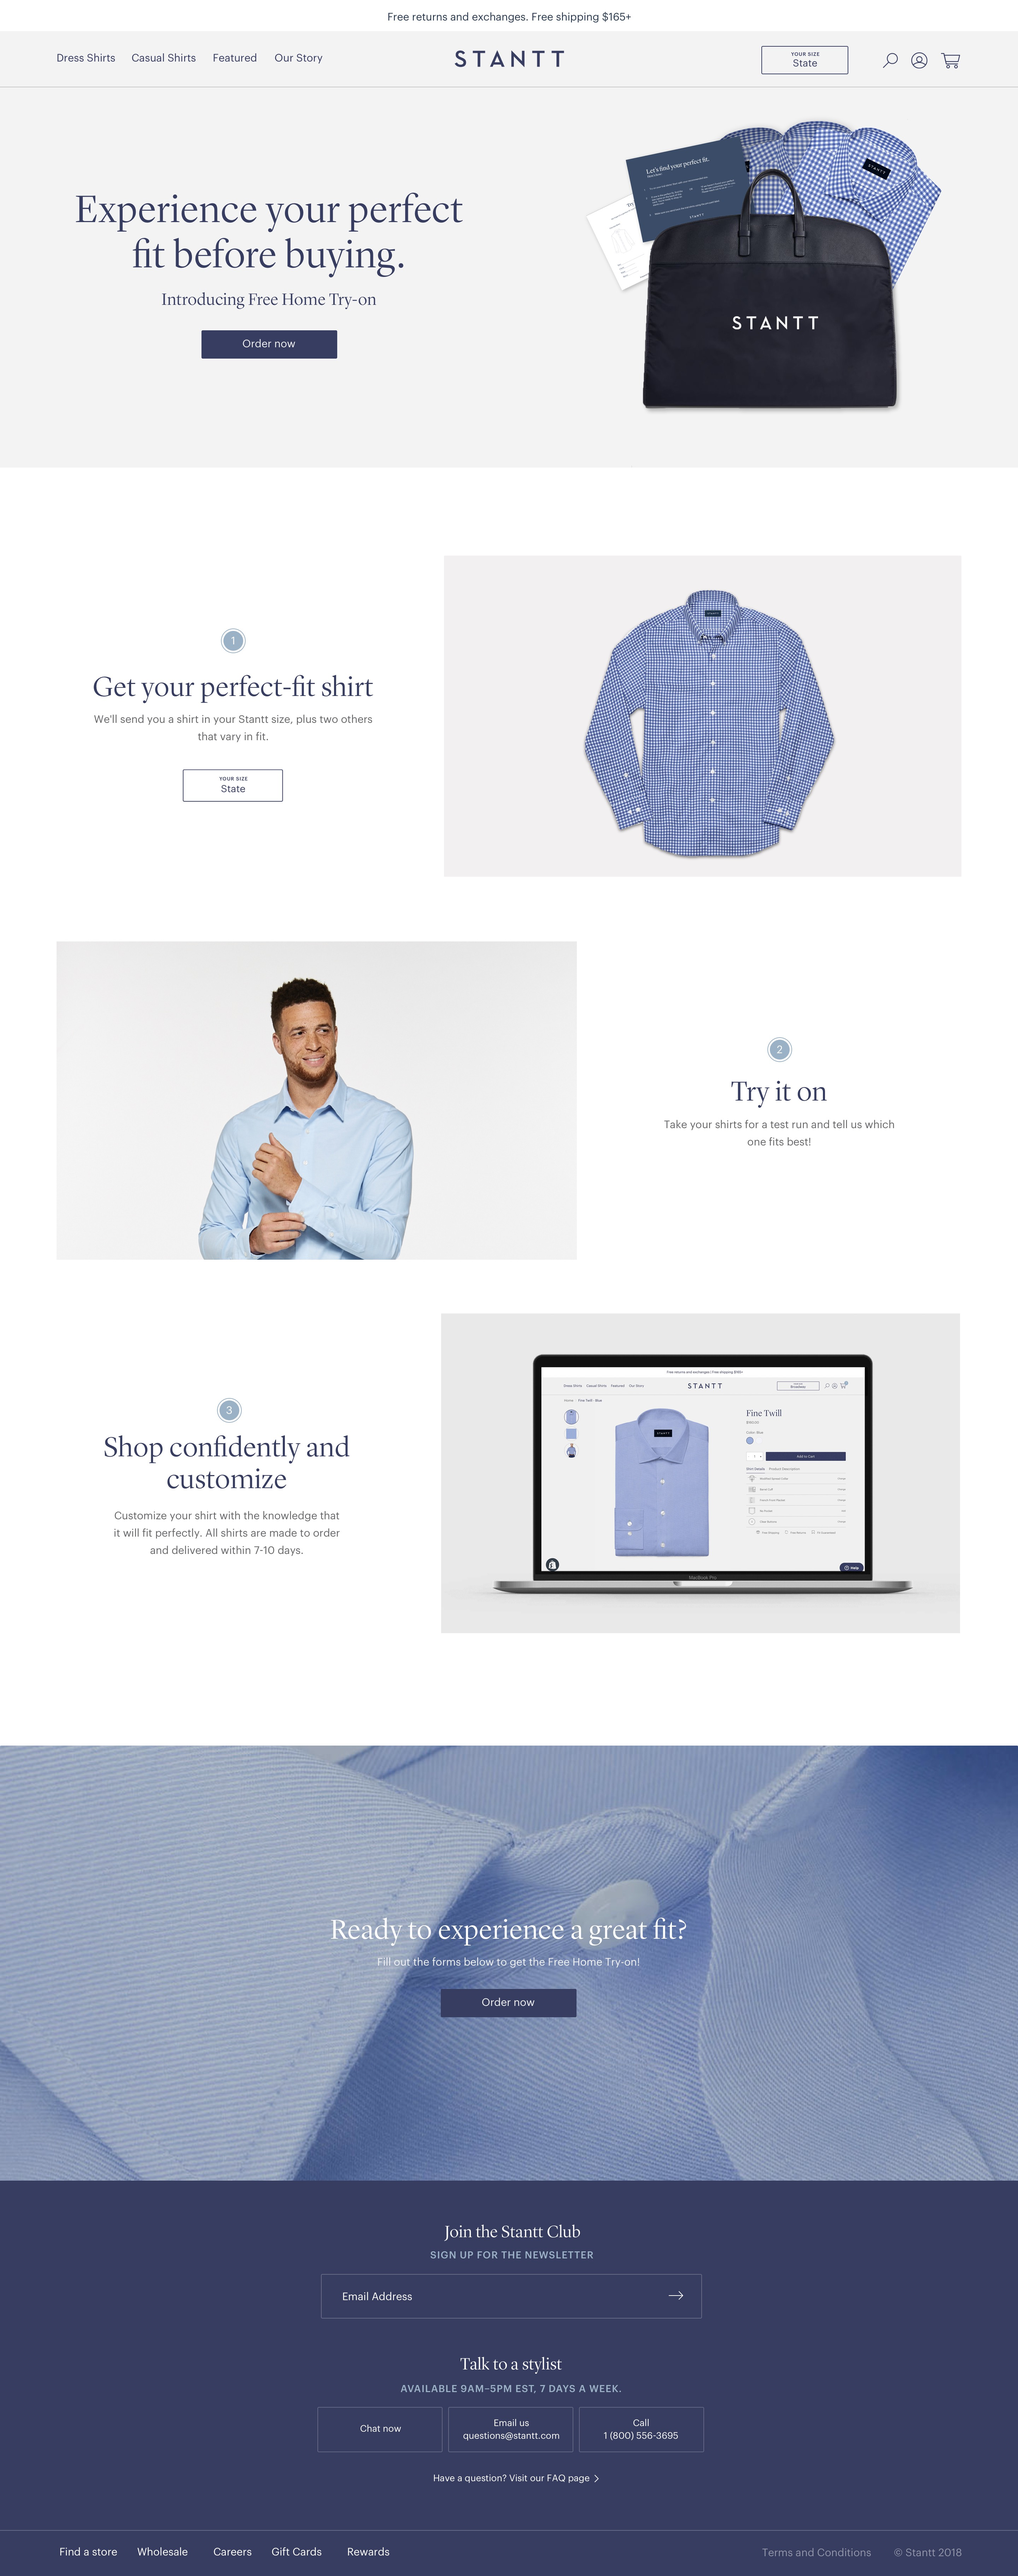
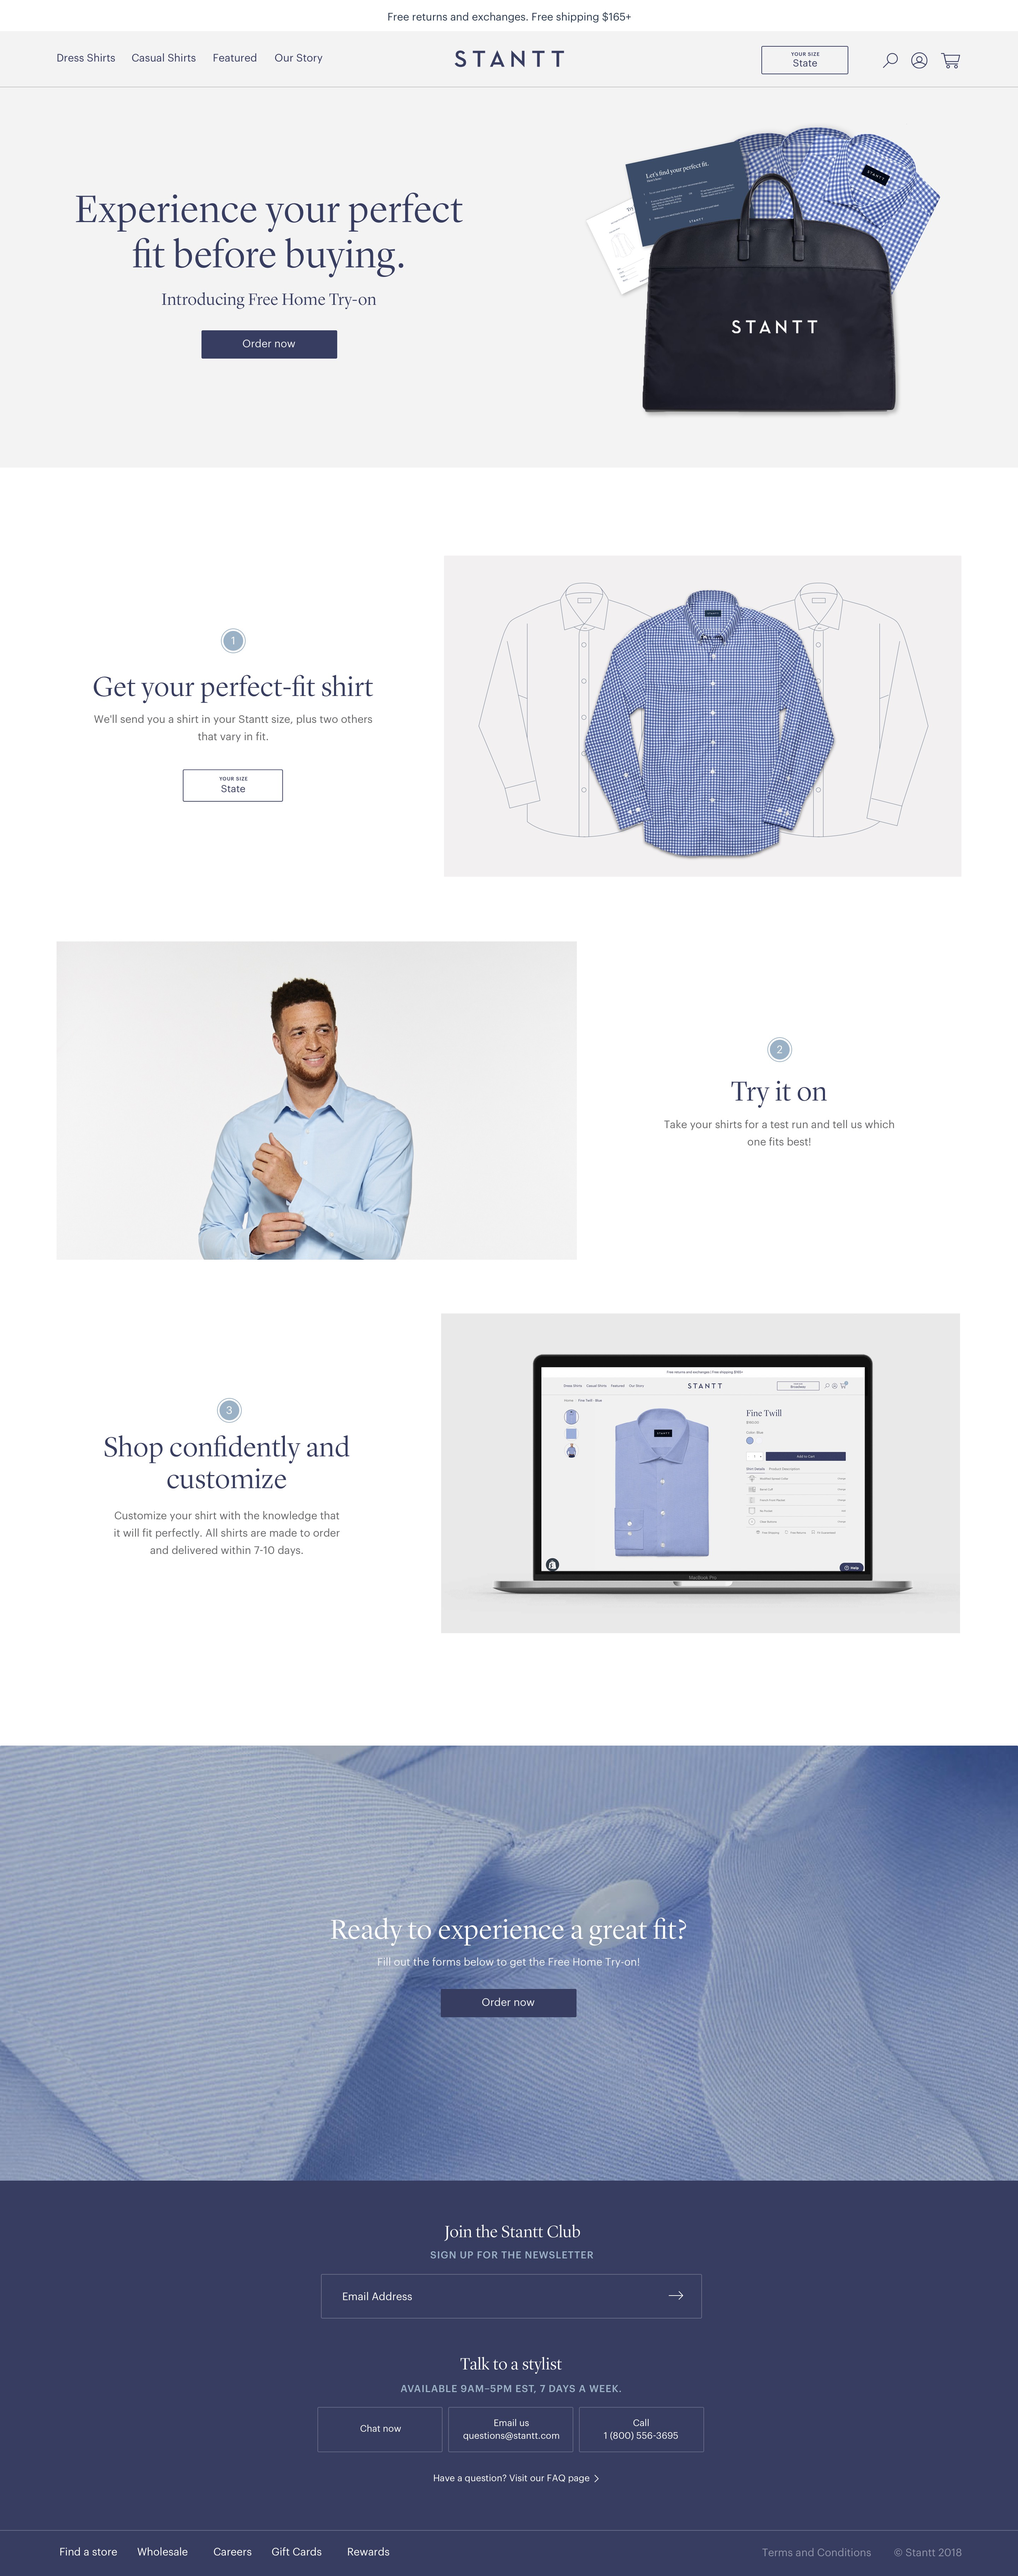
5

Changed region(s): [[0.625, 0.0312, 0.9375, 0.1247], [0.6562, 0.1558, 0.875, 0.187]]

diff --git a/stantt_freetryon/stantt_freetryon.hyperesources/stanttfreetryon_hype_generated_script.js b/stantt_freetryon/stantt_freetryon.hyperesources/stanttfreetryon_hype_generated_script.js
@@ -3,5 +3,5 @@
 (function(){(function k(){function l(a,b,d){var c=!1;null==window[a]&&(null==window[b]?(window[b]=[],window[b].push(k),a=document.getElementsByTagName("head")[0],b=document.createElement("script"),c=h,false==!0&&(c=""),b.type="text/javascript",b.src=c+"/"+d,a.appendChild(b)):window[b].push(k),c=!0);return c}var h="stantt_freetryon.hyperesources",c="stantt_freetryon",e="stanttfreetryon_hype_container";if(false==!1)try{for(var f=document.getElementsByTagName("script"),
 a=0;a<f.length;a++){var b=f[a].src,d=null!=b?b.indexOf("/stanttfreetryon_hype_generated_script.js"):-1;if(-1!=d){h=b.substr(0,d);break}}}catch(n){}if(false==!1&&(a=navigator.userAgent.match(/MSIE (\d+\.\d+)/),a=parseFloat(a&&a[1])||null,a=l("HYPE_596","HYPE_dtl_596",!0==(null!=a&&10>a||false==!0)?"HYPE-596.full.min.js":"HYPE-596.thin.min.js"),false==!0&&(a=a||l("HYPE_w_596","HYPE_wdtl_596","HYPE-596.waypoints.min.js")),a))return;f=window.HYPE.documents;
 if(null!=f[c]){b=1;a=c;do c=""+a+"-"+b++;while(null!=f[c]);d=document.getElementsByTagName("div");b=!1;for(a=0;a<d.length;a++)if(d[a].id==e&&null==d[a].getAttribute("HYP_dn")){var b=1,g=e;do e=""+g+"-"+b++;while(null!=document.getElementById(e));d[a].id=e;b=!0;break}if(!1==b)return}b=[];b=[];d={};g={};for(a=0;a<b.length;a++)try{g[b[a].identifier]=b[a].name,d[b[a].name]=eval("(function(){return "+b[a].source+"})();")}catch(m){window.console&&window.console.log(m),d[b[a].name]=
-function(){}}a=new HYPE_596(c,e,{"3":{p:1,n:"Home%20Try-on_Opt1__2x__2x.jpg",g:"26",t:"@2x"},"1":{p:1,n:"customize.gif",g:"39",t:"@1x"},"-2":{n:"blank.gif"},"-1":{n:"PIE.htc"},"2":{p:1,n:"02.gif",g:"42",t:"@1x"},"0":{p:1,n:"shirt.gif",g:"24",t:"@1x"}},h,[],d,[{n:"Untitled Scene",o:"1",X:[0]}],[{o:"3",p:"600px",cA:false,Y:1440,Z:3630,L:[],c:"#FFFFFF",bY:1,d:1440,U:{},T:{kTimelineDefaultIdentifier:{i:"kTimelineDefaultIdentifier",n:"Main Timeline",z:0,b:[],a:[],f:30}},bZ:180,O:["45","51","50","47","46","49","48"],n:"Untitled Layout","_":0,v:{"47":{h:"24",p:"no-repeat",x:"visible",a:0,q:"100% 100%",b:-7,j:"absolute",bF:"46",z:1,k:"div",dB:"img",d:437,c:583,r:"inline"},"50":{k:"div",x:"hidden",c:692,d:526,z:3,a:720,j:"absolute",b:131},"45":{h:"26",p:"no-repeat",x:"visible",a:0,q:"100% 100%",b:1,j:"absolute",dB:"img",z:2,k:"div",c:1440.26,d:3643,r:"inline"},"48":{k:"div",x:"hidden",c:738,d:452,z:8,a:620,j:"absolute",b:1859},"51":{h:"42",p:"no-repeat",x:"visible",a:0,q:"100% 100%",b:-86,j:"absolute",bF:"50",z:1,k:"div",dB:"img",d:612,c:692,r:"inline"},"46":{k:"div",x:"hidden",c:583,d:430,z:7,a:701,j:"absolute",b:794},"49":{h:"39",p:"no-repeat",x:"visible",a:-16,q:"100% 100%",b:0,j:"absolute",bF:"48",z:1,k:"div",dB:"img",d:452,c:769,r:"inline"}}}],{},g,{},null,false,true,-1,true,true,false,true);f[c]=a.API;document.getElementById(e).setAttribute("HYP_dn",
+function(){}}a=new HYPE_596(c,e,{"1":{p:1,n:"Home%20Try-on_Opt1__2x__2x.jpg",g:"26",t:"@2x"},"-2":{n:"blank.gif"},"-1":{n:"PIE.htc"},"2":{p:1,n:"02%20%281%29.gif",g:"49",t:"@1x"},"0":{p:1,n:"customize.gif",g:"39",t:"@1x"}},h,[],d,[{n:"Untitled Scene",o:"1",X:[0]}],[{o:"3",p:"600px",cA:false,Y:1440,Z:3630,L:[],c:"#FFFFFF",bY:1,d:1440,U:{},T:{kTimelineDefaultIdentifier:{i:"kTimelineDefaultIdentifier",n:"Main Timeline",z:0,b:[],a:[],f:30}},bZ:180,O:["50","54","53","52","51"],n:"Untitled Layout","_":0,v:{"51":{k:"div",x:"hidden",c:738,d:450,z:9,a:620,j:"absolute",b:1859},"54":{h:"49",p:"no-repeat",x:"visible",a:0,q:"100% 100%",b:-86,j:"absolute",bF:"53",z:1,k:"div",dB:"img",d:612,c:692,r:"inline"},"50":{h:"26",p:"no-repeat",x:"visible",a:0,q:"100% 100%",b:1,j:"absolute",dB:"img",z:2,k:"div",c:1440.26,d:3643,r:"inline"},"53":{k:"div",x:"hidden",c:692,d:526,z:3,a:748,j:"absolute",b:131},"52":{h:"39",p:"no-repeat",x:"visible",a:-12,q:"100% 100%",b:0,j:"absolute",bF:"51",z:1,k:"div",dB:"img",d:450,c:765,r:"inline"}}}],{},g,{},null,false,true,-1,true,true,false,true);f[c]=a.API;document.getElementById(e).setAttribute("HYP_dn",
 c);a.z_o(this.body)})();})();

diff --git a/stantt_freetryon/index.html b/stantt_freetryon/index.html
@@ -24,7 +24,7 @@
 	<!-- copy these lines to your document: -->
 
 	<div id="stanttfreetryon_hype_container" style="margin:auto;position:relative;width:1440px;height:3630px;overflow:hidden;">
-		<script type="text/javascript" charset="utf-8" src="stantt_freetryon.hyperesources/stanttfreetryon_hype_generated_script.js?57092"></script>
+		<script type="text/javascript" charset="utf-8" src="stantt_freetryon.hyperesources/stanttfreetryon_hype_generated_script.js?21642"></script>
 	</div>
 
 	<!-- end copy -->
